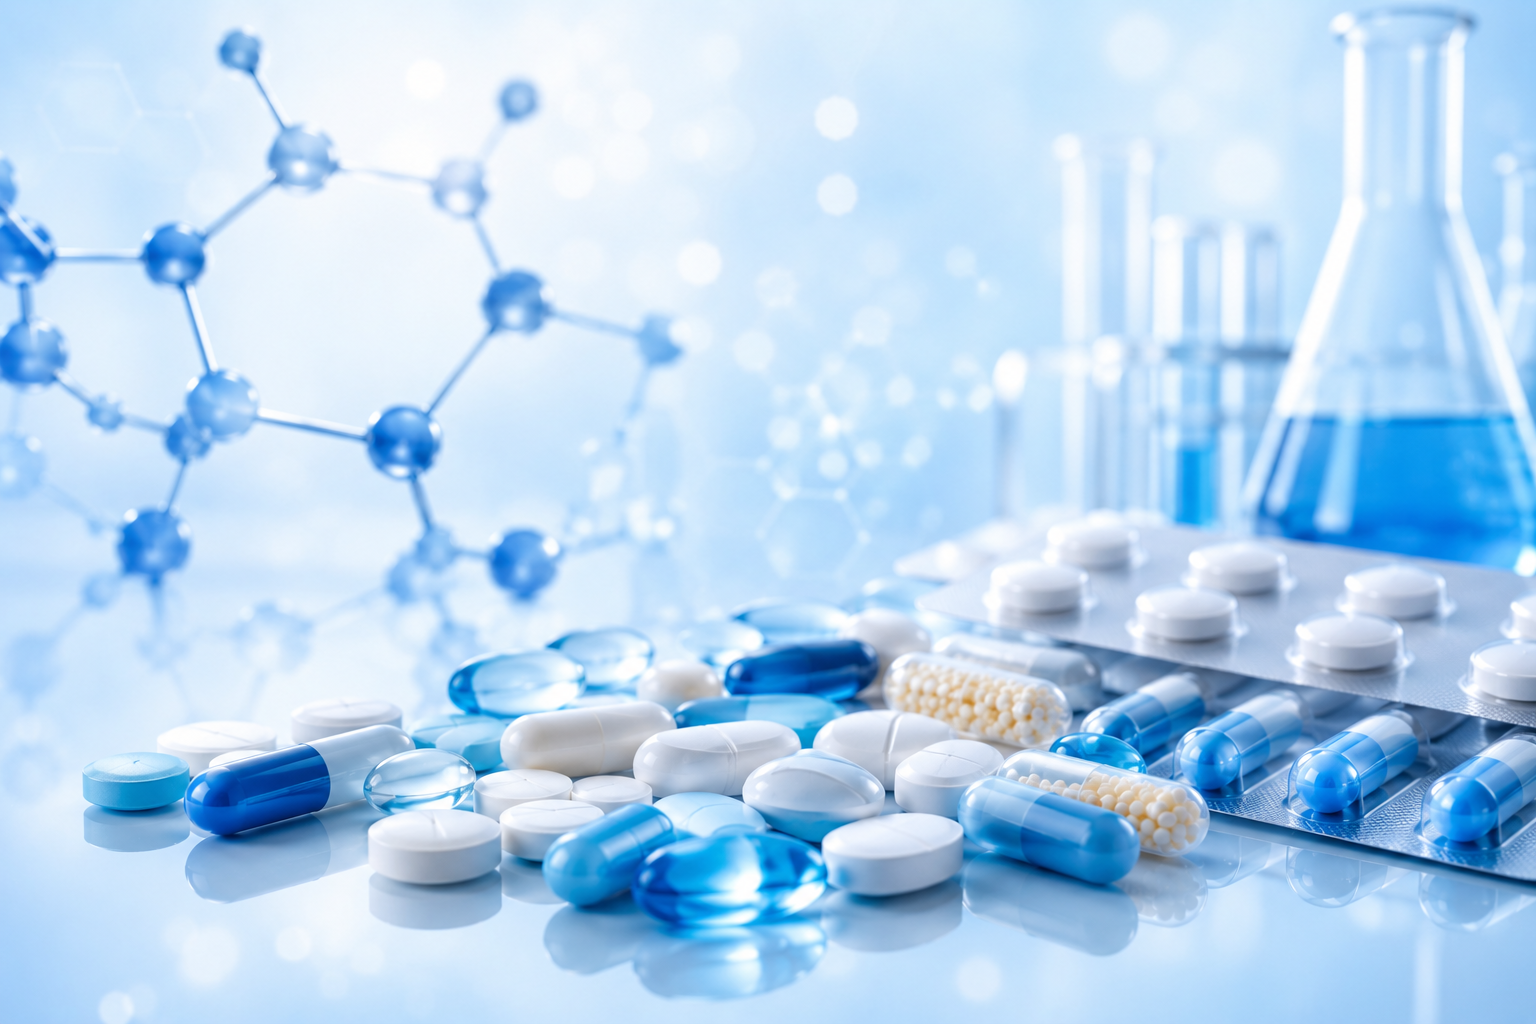
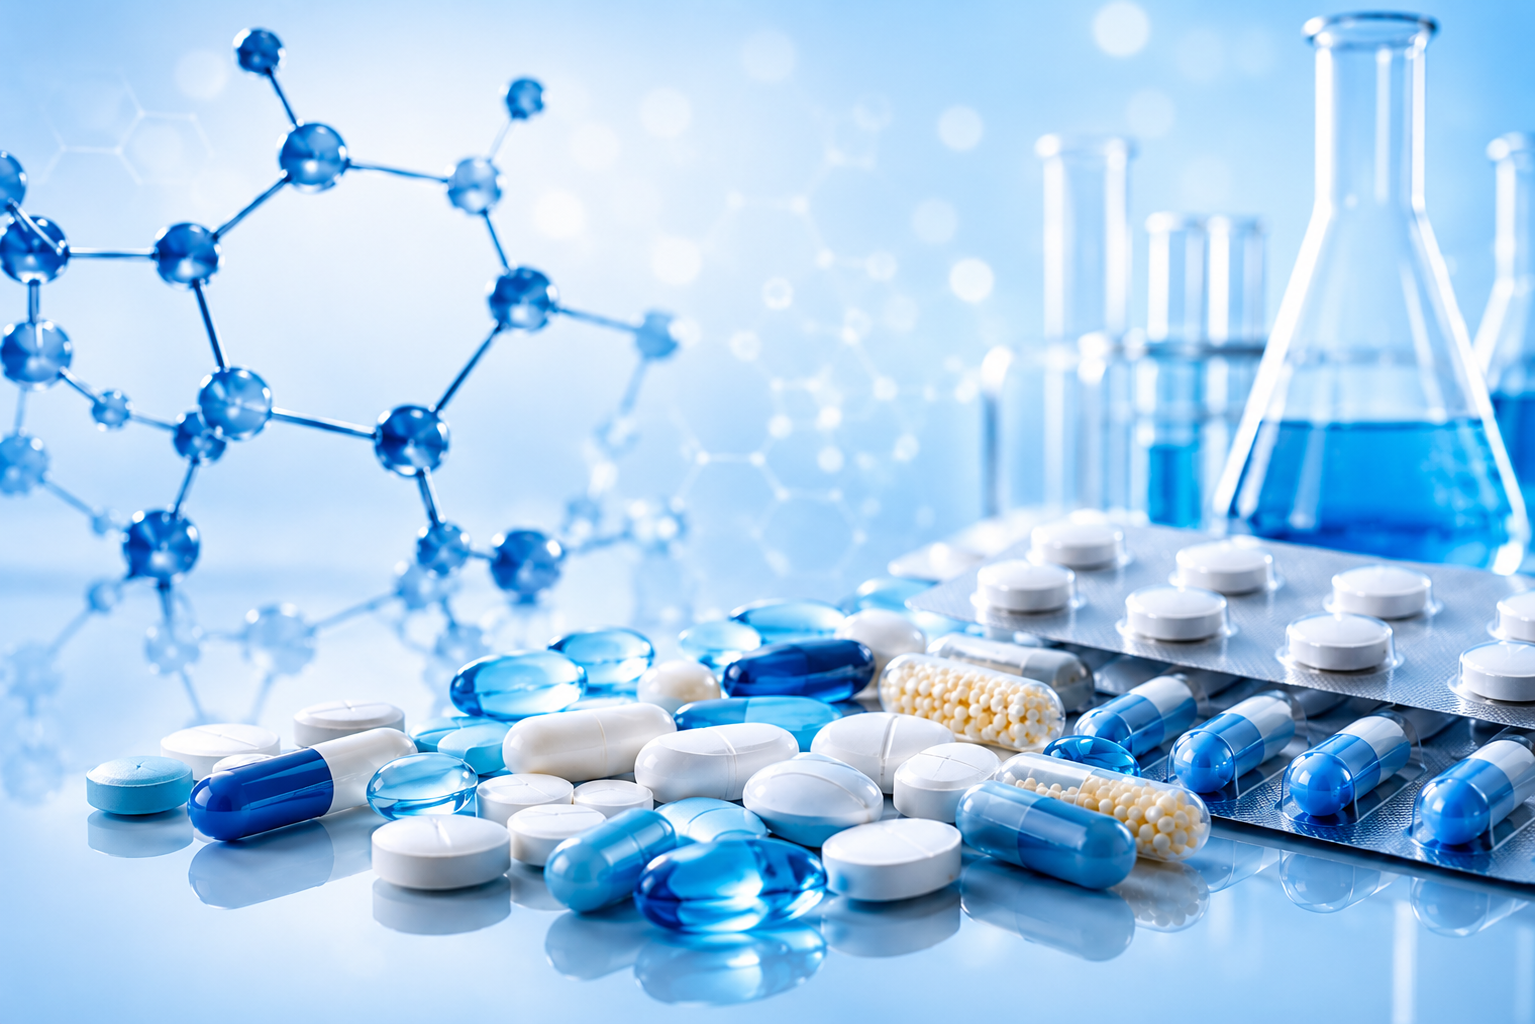
abc
abc

diff --git a/src/app/globals.css b/src/app/globals.css
@@ -1240,7 +1240,7 @@ button:active {
 .scope-card {
   position: absolute;
   right: -1.6rem;
-  bottom: -1.4rem;
+  bottom: -clamp(2rem, 4vw, 4rem);
   width: min(220px, 52%);
   background: rgba(245, 250, 253, 0.85);
   border: 1px solid #d9e5ee;
@@ -2263,9 +2263,9 @@ button:active {
 
 .footer-inner {
   display: grid;
-  grid-template-columns: minmax(220px, 0.9fr) minmax(260px, 1.15fr) minmax(220px, 0.9fr) minmax(320px, 1.35fr);
-  gap: var(--space-2xl);
-  padding: var(--space-2xl) 0 var(--space-lg);
+  grid-template-columns: 1.1fr 1.2fr 1.2fr 1.1fr;
+  gap: clamp(2rem, 6vw, 5rem);
+  padding: var(--space-2xl) clamp(2rem, 4vw, 4rem) var(--space-lg);
   align-items: start;
   max-width: 100%;
 }
@@ -3437,7 +3437,7 @@ html[data-theme="dark"] .manufacturing-process-step {
 }
 
 .facility-capabilitiesSection {
-  padding: clamp(6rem, 12vw, 12rem) 0;
+  padding: 100px 0 clamp(6rem, 12vw, 12rem);
   position: relative;
   overflow: hidden;
 }
@@ -3607,7 +3607,7 @@ html[data-theme="dark"] .manufacturing-process-step {
 }
 
 .facility-facilitiesSection {
-  padding: clamp(5rem, 12vw, 8rem) 0;
+  padding: 100px 0 clamp(5rem, 12vw, 8rem);
   position: relative;
   overflow: hidden;
   min-height: auto;
@@ -4440,7 +4440,7 @@ html[data-theme="dark"] .manufacturing-process-step {
 
 /* HOME PAGE - CORPORATION SECTION */
 .corporation-section {
-  padding: 0 1.5rem 4rem 1.5rem;
+  padding: clamp(2rem, 4vw, 4rem) 1.5rem clamp(2rem, 4vw, 4rem) 1.5rem;
   position: relative;
   overflow: hidden;
   background: rgba(237, 246, 255, 0.84);
@@ -4733,7 +4733,7 @@ html[data-theme="dark"] .manufacturing-process-step {
 
 /* FACILITY PAGE - QUALITY & COMPLIANCE SECTION */
 .facility-qualityComplianceSection {
-  padding: clamp(8rem, 14vw, 13rem) 0;
+  padding: 100px 0 clamp(8rem, 14vw, 13rem);
   position: relative;
   overflow: hidden;
 }
@@ -5121,7 +5121,7 @@ html[data-theme="dark"] .manufacturing-process-step {
 
 /* PRODUCTS PAGE - OVERVIEW SECTION */
 .product-overview {
-  padding: 0;
+  padding: clamp(2rem, 4vw, 4rem) 0;
   margin-top: 0;
   width: 100%;
 }
@@ -5304,7 +5304,7 @@ html[data-theme="dark"] .manufacturing-process-step {
 }
 
 .current-portfolio {
-  padding: 0;
+  padding: clamp(2rem, 4vw, 4rem) 0;
   width: 100%;
 }
 
@@ -5420,13 +5420,8 @@ html[data-theme="dark"] .manufacturing-process-step {
 }
 
 .future-horizons {
-  padding: 0;
+  padding: clamp(2rem, 4vw, 4rem) 0;
   width: 100%;
-}
-
-/* PRODUCTS PAGE - keep hero→content tight, otherwise inherit home-page rhythm */
-.product-page .product-highlight {
-  padding: 0;
 }
 
 .product-background {
@@ -5518,7 +5513,7 @@ html[data-theme="dark"] .manufacturing-process-step {
 }
 
 .quality-section {
-  padding: 0;
+  padding: clamp(2rem, 4vw, 4rem) 0;
   width: 100%;
 }
 
@@ -5619,7 +5614,7 @@ html[data-theme="dark"] .manufacturing-process-step {
 }
 
 .product-highlight {
-  padding: clamp(6rem, 10vw, 9rem) 0;
+  padding: clamp(2rem, 4vw, 4rem) 0;
   display: flex;
   justify-content: center;
   align-items: center;
@@ -6042,7 +6037,7 @@ html[data-theme="dark"] .manufacturing-process-step {
 }
 
 .showcaseSection {
-  padding: clamp(3rem, 8vw, 9rem) 0;
+  padding: clamp(2rem, 4vw, 4rem) 0 clamp(2rem, 4vw, 4rem);
   display: flex;
   justify-content: center;
   align-items: center;
@@ -6205,13 +6200,17 @@ html[data-theme="dark"] .manufacturing-process-step {
 }
 
 .highlightsSection {
-  padding: clamp(3rem, 6vw, 8rem) 0 clamp(3rem, 6vw, 8rem) 0;
+  padding: clamp(2rem, 4vw, 4rem) 0 clamp(2rem, 4vw, 4rem) 0;
   position: relative;
   overflow: hidden;
   background:
     radial-gradient(circle at 10% 18%, rgba(143, 197, 231, 0.12), transparent 22%),
     radial-gradient(circle at 92% 88%, rgba(146, 213, 234, 0.12), transparent 20%),
     linear-gradient(180deg, #f7fbfe 0%, #edf4f9 100%);
+}
+
+.highlightsSection .highlights-container {
+  padding-top: 0;
 }
 
 .highlightsSection::before {
@@ -6448,7 +6447,7 @@ html[data-theme="dark"] .manufacturing-process-step {
 }
 
 .ecosystemSection {
-  padding: clamp(3rem, 6vw, 8rem) 0 clamp(3rem, 6vw, 8rem) 0;
+  padding: clamp(2rem, 4vw, 4rem) 0 clamp(2rem, 4vw, 4rem) 0;
 }
 
 .ecosystemContainer {
@@ -6703,7 +6702,7 @@ html[data-theme="dark"] .manufacturing-process-step {
 }
 
 .laboratoryServicesSection {
-  padding: clamp(3rem, 8vw, 8rem) 0;
+  padding: clamp(2rem, 4vw, 4rem) 0 clamp(2rem, 4vw, 4rem);
   position: relative;
 }
 
@@ -6947,6 +6946,10 @@ html[data-theme="dark"] .manufacturing-process-step {
 .capabilityShowcaseCard.accentGreen .capabilityShowcaseIcon,
 .capabilityShowcaseCard.accentGreen .capabilityShowcaseBody small {
   color: #6fe54f;
+}
+
+.complianceFrameworkSection {
+  padding: clamp(2rem, 4vw, 4rem) 0 clamp(2rem, 4vw, 4rem) 0;
 }
 
 .compliance-container {
@@ -8203,7 +8206,7 @@ html[data-theme="dark"] .gradient-decorator {
    ======================================== */
 
 .rh-section {
-  padding: clamp(5rem, 10vw, 9rem) 0;
+  padding: clamp(2rem, 4vw, 4rem) 0;
   background: rgba(237, 246, 255, 0.84);
   position: relative;
   overflow: hidden;

diff --git a/src/components/hero.css b/src/components/hero.css
@@ -122,7 +122,6 @@
     calc(var(--hero-transform-origin-x-ratio) * 100%)
     calc(var(--hero-transform-origin-y-ratio) * 100%);
   will-change: transform, opacity;
-  backface-visibility: hidden;
 }
 
 .hero-background-layer {
@@ -139,7 +138,6 @@
   background-size: var(--hero-base-image-width) var(--hero-base-image-height);
   background-position: var(--hero-base-image-left) var(--hero-base-image-top);
   background-repeat: no-repeat;
-  filter: saturate(1.02) contrast(1.12);
 }
 
 .hero-background-layer::after {
@@ -408,14 +406,6 @@
   text-transform: uppercase;
   color: rgba(255, 255, 255, 0.75);
   text-align: center;
-}
-
-/* ========================================
-   FACILITY HERO - 2-LINE HEADING OVERRIDE
-   ======================================== */
-
-.facility-hero-section .hero-content {
-  max-width: 1200px;
 }
 
 /* ========================================

diff --git a/src/app/products/page.tsx b/src/app/products/page.tsx
@@ -104,10 +104,10 @@ export default function ProductsPage() {
               <div className="highlight-image-card">
                 <div className="highlight-image-frame">
                   <Image
-                    src="/Product_Overview.jpg"
+                    src="/Overview.png"
                     alt="Certified pharmaceutical facility"
                     width={400}
-                    height={500}
+                    height={400}
                     className="facility-image"
                   />
                 </div>
@@ -275,9 +275,6 @@ export default function ProductsPage() {
           </div>
         </div>
       </section>
-
-      <br></br>
-      <br></br>
 
       <section ref={qualityRef} className="quality-section product-section-zoom">
         <div className="product-section-surface">

diff --git a/src/components/site-header.tsx b/src/components/site-header.tsx
@@ -12,7 +12,7 @@ type NavItem = {
 };
 
 const navItems: NavItem[] = [
-  { href: "/about", label: "About" },
+  { href: "/about", label: "About Us" },
   { href: "/facility", label: "Facility" },
   { href: "/quality", label: "Quality" },
   { href: "/products", label: "Products" },
